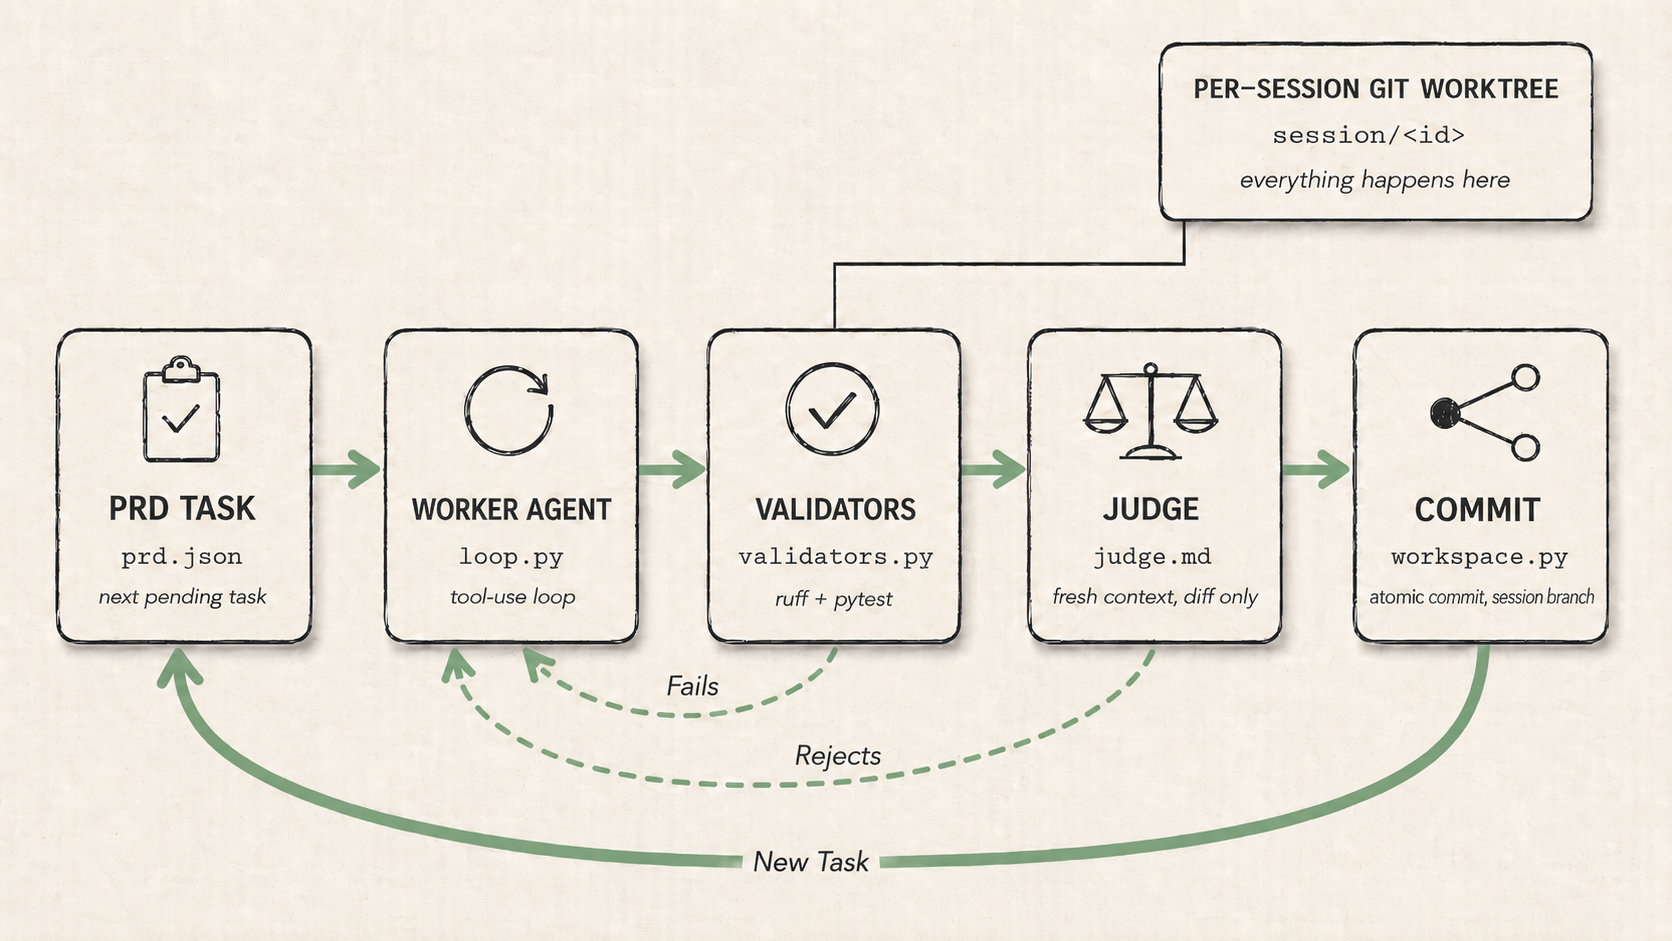
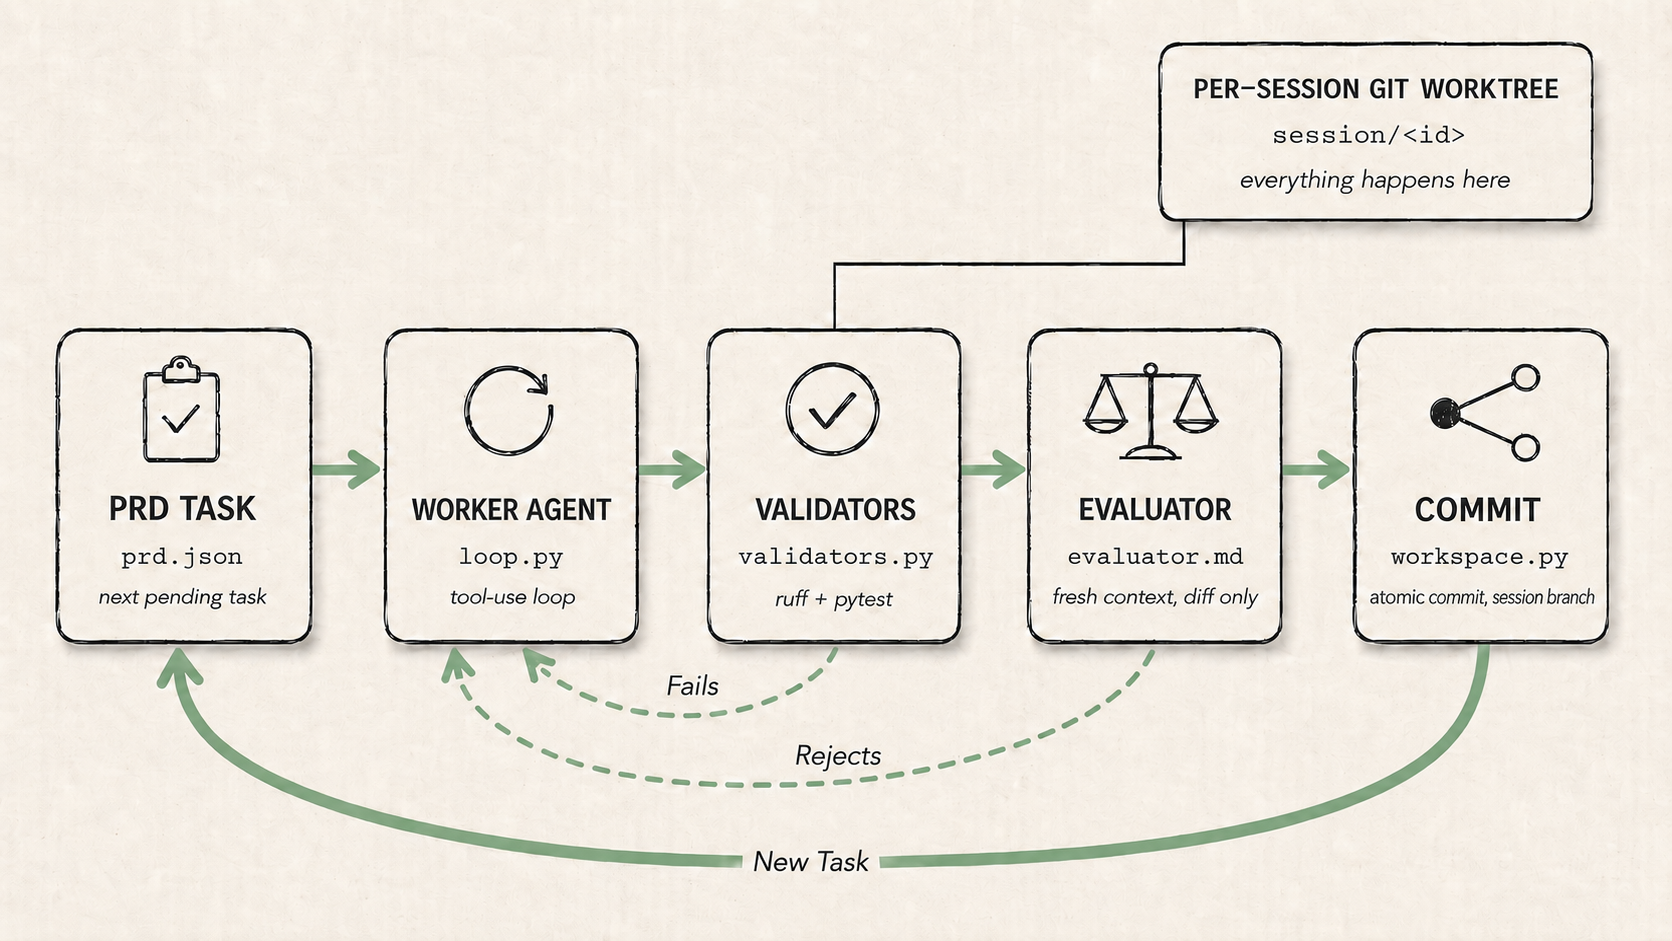
docs: address inline review comments; align iteration-cap default to 32
Resolve the %%! ... !%% review comments across the getting-started pages
and CLAUDE.md:
- CLAUDE.md: state the hyper-observability goal + link to Visualizing.
- your-own-project: add an early-research disclaimer; reframe "Python-centric"
  as Python-only-today / polyglot-intended (#20); link Visualizing from the
  first-run checklist.
- running-the-demo: demo is now just AGENTS.md + .gitignore; clarify the seed
  outputs are harness-owned and land Tilth-side; embed the session-layout
  diagram; correct the resume/cap guidance (only the token cap is cumulative
  across resumes — wall-clock resets, iteration cap is per-task).
- installation: note install-from-source (no binary story yet).

Make 32 the real iteration-cap default in code (client.py) so it matches
.env.example and the docs, and update the bare-value references across the
deep-dives / architecture / reference pages. The captured iter-cap worked
example (caps.md + resuming.md) stays truthful to its screenshots (cap=8),
with a note that the capture predates the default bump.

diff --git a/tilth/client.py b/tilth/client.py
@@ -137,7 +137,7 @@ class TilthConfig:
             prep_base_url=prep_base_url,
             prep_api_key=prep_api_key,
             prep_model=prep_model,
-            max_iterations_per_task=int(os.environ.get("TILTH_MAX_ITERATIONS_PER_TASK", "8")),
+            max_iterations_per_task=int(os.environ.get("TILTH_MAX_ITERATIONS_PER_TASK", "32")),
             max_evaluator_calls_per_task=int(
                 os.environ.get("MAX_EVALUATOR_CALLS_PER_TASK", "0") or "0"
             ),

diff --git a/docs/getting-started/your-own-project.md b/docs/getting-started/your-own-project.md
@@ -1,10 +1,8 @@
 # Using Tilth on your own project
 
-The honest version, not the marketing version.
+> **Early-stage research project.** Tilth is a research harness, not a hardened product. Running it should be *safe*: every change lands on an isolated `session/<id>` worktree branch, never on your `main`, and the harness never auto-merges — you review the diff like any other branch. What isn't guaranteed yet is *quality*. In these early stages the branch Tilth hands back may be rough or incomplete, and the tokens spent getting there are real. Treat runs as spend-at-your-own-risk and keep the first ones small.
 
 This page is for a reader who has finished the [demo walkthrough](running-the-demo.md) and now wants to point Tilth at their own codebase. [Installation](installation.md) and [Running the demo](running-the-demo.md) cover the harness mechanics — this page covers what's specific to applying it to your *own* repo: seeding the task list with `tilth prep-feature`, picking an evaluator, and the caveats that aren't obvious from a demo run.
-
-> **TL;DR.** This works well on a small Python project with 5–15 well-specified tasks and existing test patterns. Anything bigger or polyglot, you fork the harness.
 
 ## 1. Prep your repo
 
@@ -68,25 +66,22 @@ The session log lives at `{{tilth-clone-path}}/sessions/<id>/events.jsonl` — e
 
 ## 5. Caveats worth being upfront about
 
-- **It's Python-centric.** `post_edit` lints `.py` files. `validators` runs `pytest` and `ruff`. JavaScript / Rust / Go projects need `tilth/validators.py` and `tilth/hooks/post_edit.py` adapted to your toolchain — not deep work, but not zero.
-- **Ruff config matters.** If your project doesn't already use ruff, the validator will fire constantly and the agent will spend iterations fixing things that aren't really broken. Either add a permissive `[tool.ruff]` block to your `pyproject.toml`, or swap the ruff validator for whatever linter you already use.
+- **It's Python-only today — polyglot is the intent.** Right now `post_edit` lints `.py` files and `validators` runs `pytest` and `ruff`, so the mechanical floor assumes a Python toolchain. Making that floor language-pluggable — so Tilth can drive JavaScript, Rust, or Go projects on their own toolchains — is a tracked goal ([#20](https://github.com/AlteredCraft/tilth/issues/20)), not a finished feature. Until it lands, pointing Tilth at a non-Python project means adapting `tilth/validators.py` and `tilth/hooks/post_edit.py` to your toolchain yourself — not deep work, but not zero.
 - **The interview drives the seed; you drive the interview.** `prep-feature` interviews against your code, but the answers come from you. Vague briefs and rushed answers produce vague seeds and weak acceptance criteria, which burn tokens and produce branches you'll rewrite. The interview is the high-leverage moment — slow down here, not in the run.
-- **Costs are real, in two places.** The interview itself is a real spend (a frontier-tier reasoning model across many turns); the prompt-line token strip surfaces it so you can abort if it drifts. Then the run itself spends hundreds of thousands of tokens across worker + evaluator + self-improvement. The `TILTH_MAX_TOKENS` cap exists for a reason — set it on first run. Cost per token varies wildly across providers; pick your worker accordingly. Be careful about reaching for a smaller evaluator model to cut costs — see [Picking a evaluator model](#6-picking-an-evaluator-model) below.
+- **Costs are real, in two places.** The interview itself is a real spend (a frontier-tier reasoning model across many turns); the prompt-line token strip surfaces it so you can abort if it drifts. Then the run itself spends hundreds of thousands of tokens across worker + evaluator + self-improvement. The `TILTH_MAX_TOKENS` cap exists for a reason — set it on first run. If you set it too low, you can simply raise it and `--resume` the session. Cost per token varies wildly across providers; pick your worker accordingly. Be careful about reaching for a smaller evaluator model to cut costs — see [Picking a evaluator model](#6-picking-an-evaluator-model) below.
 - **AGENTS.md is yours.** Tilth reads it, never writes it. The self-improvement step's proposals land in `sessions/<id>/proposed-learnings.md` for you to review and (optionally) promote into AGENTS.md by hand. The file only grows when you decide it should.
 - **Tools are intentionally narrow.** No web fetch, no MCP, no curl-based downloads. If your tasks require external API access, you add a tool to `tilth/tools/` and register it. Keep tools focused — every tool description ships in the prompt every turn.
 - **The harness commits to your repo's git db.** Tilth keeps the working tree under `sessions/<id>/workspace/` on its own side, but the branch `session/<id>` lives in *your* repo's `.git`. So if you delete your Tilth clone without resetting first, those branches remain in your project. Clean up branches the same way you would for a normal feature branch — or run `tilth reset` before you blow Tilth away. See [Session layout](../deep-dives/session-layout.md) for the full split.
 
 ## 6. Picking an evaluator model
 
-The evaluator call is the single most consequential model decision in the harness. It's the only thing standing between "validators passed" and "this gets committed to a branch you'll merge." (The role is the *evaluator*; the config knob you set here is still `TILTH_EVALUATOR_MODEL`.)
+The evaluator call is the single most consequential model decision in the harness. It's the only thing standing between "validators passed" and "this gets committed to a branch you'll merge."
 
 ### Default: evaluator ≥ worker
 
 For correctness gating on code diffs, the evaluator should be **at least as capable as the worker, often more capable**. A weaker evaluator fails in the worst possible way: it accepts bad work because it didn't notice the problem.
 
-This is the opposite of the intuition many people start with ("the worker did the hard work, the evaluator just rubber-stamps"). The evaluator sees the diff, the acceptance criteria, the full validator output, the inlined seed test, the worker's structured case, and its own prior verdicts on this task — but not the worker's chain-of-thought or tool history. It's reviewing an artifact, not retracing the work — so it needs more capability to compensate, not less.
-
-Academic LLM-as-a-judge research bears this out: evaluators are typically run with GPT-4-class models judging GPT-3.5-class outputs, not the other way around. The point of separation is **independence**, not capability reduction.
+The evaluator sees the diff, the acceptance criteria, the full validator output, the inlined seed test, the worker's structured case, and its own prior verdicts on this task — but not the worker's chain-of-thought or tool history. It's reviewing an artifact, not retracing the work — so it needs more capability to compensate, not less.
 
 ### When dual-provider routing actually pays off
 
@@ -95,23 +90,10 @@ The `TILTH_EVALUATOR_BASE_URL` / `TILTH_EVALUATOR_API_KEY` feature is genuinely 
 - **Worker = open model, evaluator = Claude (both on OpenRouter).** Different model families catch different failure modes. Same-family judging shares the worker's blind spots.
 - **Worker = capable open model, evaluator = frontier closed model.** When you need the strongest possible gate, route the evaluator to whatever's at the top of the leaderboard for code review.
 
-Both of these are *upgrading* the evaluator, not downgrading it.
-
-### When a smaller / cheaper evaluator is OK
-
-There's a narrow band where a cheap evaluator works:
-
-- **Shallow checks.** Binary outcomes ("did this string change?", "is this JSON?"), regex matches, simple format validation.
-- **Policy gates.** "Did the response avoid the banned topics?", "Is this on-brand?" — small finetuned classifiers can do this for a fraction of the cost.
-- **Worker is already top-tier and tasks are tightly bounded.** If the worker is Sonnet 4.5 doing well-specified PRD tasks, a Haiku-class evaluator catches the obvious failures cheaply.
-
-For a Ralph loop doing real code review, none of these usually apply. Default to a evaluator that's at least as good as the worker. Only swap to a smaller evaluator after you've measured evaluator accept-rate on known-bad tasks and confirmed it's still catching them.
-
 ## 7. When this is the wrong tool
 
 - **Closed-source-only tasks.** If you can't share code with OpenRouter, this isn't the right tool today. A self-hosted OpenAI-compatible endpoint (vLLM, LM Studio) might work via the OpenAI SDK but hasn't been validated.
 - **Models without tool-calling support.** Some OpenRouter routes, some smaller open models, and most "completion-only" endpoints will fail or hallucinate tool calls. Verify on the demo workspace first.
-- **Polyglot codebases.** Adapt the validators, or accept that only the evaluator model is gating quality.
 - **One-shot prompts.** If your work fits in one Claude Code or Cursor session, just use that.
 - **Hours-long, mission-critical, or production-touching runs.** Use a managed runtime (Google Agent Platform, Claude Managed Agents) instead. This harness is for *learning the pattern* on small bounded work.
 
@@ -120,6 +102,5 @@ For a Ralph loop doing real code review, none of these usually apply. Default to
 1. Brief the interview **narrowly**. Two or three tasks' worth of work — a feature with a clear contract, not an open-ended refactor. "Add `--format json` to the export CLI" beats "improve the export system."
 2. Drive the interview honestly. When asked an out-of-scope question, push back rather than nod through it; when the model proposes a slice that looks wrong, redirect with words rather than `Other` defaults. The seed compounds — early shortcuts mean later iterations.
 3. Watch the console during `tilth run` — it streams every tool call. If the agent thrashes on one task, kill the run, reset, re-prep with a sharper brief.
-4. Inspect `sessions/<id>/events.jsonl` after the run. Look for unexpected patterns: tasks that took many iterations, evaluator rejections, validator failure loops. Each is a signal.
+4. Inspect `sessions/<id>/events.jsonl` after the run. Look for unexpected patterns: tasks that took many iterations, evaluator rejections, validator failure loops. Each is a signal. For a readable pass over the same data, render the run with [`tilth visualize`](visualizing.md) — it lays the event log out as a chat-style timeline with the seed context panelled above it.
 5. Read `sessions/<id>/proposed-learnings.md` and decide what (if anything) belongs in your `AGENTS.md`. The first few proposals are often noise — prune ruthlessly.
-6. Iterate the harness, not just the prompts. If a class of failure keeps recurring, add a hook (the ratchet pattern). Constraints are earned by failures.

diff --git a/docs/deep-dives/two-loops.md b/docs/deep-dives/two-loops.md
@@ -54,12 +54,12 @@ Each iteration is **exactly one worker `client.chat()` call**, plus whatever the
 
 ## A subtlety: evaluator rejections eat iterations
 
-This is worth flagging because it's not obvious. With `MAX_ITERATIONS_PER_TASK=8`:
+This is worth flagging because it's not obvious. Under `MAX_ITERATIONS_PER_TASK` (32 by default):
 
-- Worker spends 5 iterations writing code, submits a case.
+- Worker spends several iterations writing code, then submits a case.
 - Validators pass, evaluator rejects.
-- Worker has 3 iterations left to address the rejection, submit again, get re-evaluated.
-- If the evaluator rejects again, worker has fewer iterations to recover.
+- Worker now has to address the rejection, submit again, and get re-evaluated — all out of the *same* fixed budget.
+- If the evaluator rejects again, the worker has fewer iterations left to recover; a string of rejections can run a task into the cap.
 
 **A stricter evaluator effectively shrinks the working iteration budget.** The evaluator prompt's instruction that "vague rejections waste worker iterations" exists for this exact reason — every reject costs the worker forward progress on the same fixed budget.
 
@@ -105,7 +105,7 @@ Four halt-with-failure exits (`iter_cap`, `evaluator_cap`, `empty_responses`, `n
 ## Worst-case tokens per task
 
 ```
-worker_tokens × MAX_ITERATIONS_PER_TASK       (8 by default)
+worker_tokens × MAX_ITERATIONS_PER_TASK       (32 by default)
 + evaluator_tokens × number_of_evaluator_calls (1 per submit_case that passes
                                                 validators; capped by
                                                 MAX_EVALUATOR_CALLS_PER_TASK if set,
@@ -122,4 +122,4 @@ The evaluator is called once per `submit_case` attempt that passes validators. W
 - **`MAX_ITERATIONS_PER_TASK`** stops a task that's spinning. Bounds worker effort *within* a task. Caps tokens per task *indirectly* (no direct per-task token cap exists).
 - **`MAX_EVALUATOR_CALLS_PER_TASK`** (optional, off by default) stops a task that's worker↔evaluator ping-ponging. Bounds evaluator spend on a single PRD item.
 
-Default `MAX_ITERATIONS_PER_TASK=8` means: each task gets at most 8 worker turns to explore → edit → run tests → fix lint → respond to the evaluator → finally submit an accepted case with everything green. For tightly-scoped tasks with upfront tests, that's usually 3–5 in practice. Bumping to 12 or 16 gives the agent more room on harder tasks; lowering to 4 forces tighter PRDs.
+Default `MAX_ITERATIONS_PER_TASK=32` means: each task gets at most 32 worker turns to explore → edit → run tests → fix lint → respond to the evaluator → finally submit an accepted case with everything green. For tightly-scoped tasks with upfront tests, that's usually 3–5 in practice. Bumping to 12 or 16 gives the agent more room on harder tasks; lowering to 4 forces tighter PRDs.

diff --git a/docs/getting-started/running-the-demo.md b/docs/getting-started/running-the-demo.md
@@ -1,6 +1,6 @@
 # Running the demo
 
-The demo is a small todo-CLI workspace — a tiny Python project with `AGENTS.md` and an existing `tests/__init__.py`, otherwise empty. The demo path mirrors what a real first-time user does: seed a task list with `tilth prep-feature`, then run it. The seed is not pre-baked.
+The demo workspace is deliberately almost empty — just an `AGENTS.md` (the project's conventions) and a `.gitignore`. It exists mainly as a *git repo*, which is all Tilth needs to do what it always does: branch off a worktree and build inside it. The path mirrors what a real first-time user does — seed a task list with `tilth prep-feature`, then run it. Nothing is pre-baked; the todo CLI gets built from scratch during the run.
 
 ## Clone the demo workspace
 
@@ -17,8 +17,12 @@ Tilth's task list (`prd.json`) and the matching acceptance tests come from an *i
 ```bash
 uv run tilth prep-feature ~/projects/tilth-demo
 ```
+The interview prompts you for a one-line brief (try: *"build a minimal todo CLI with add, list, and done subcommands, on-disk format `- [ ] item` in `TODOS.md`"*), then asks a few targeted questions to slice the work and lock acceptance criteria. The output is **harness-owned and lands on the Tilth side, not in the demo repo**: the task list at `<tilth-clone>/sessions/<id>/prd.json`, plus one `test_t<NNN>_*.py` per task under that session's worktree at `<tilth-clone>/sessions/<id>/workspace/tests/` (on branch `session/<id>`). Your demo checkout stays as empty as it started. See [Seeding a session](../deep-dives/seeding.md) for the full interview-engine story.
 
-The interview prompts you for a one-line brief (try: *"build a minimal todo CLI with add, list, and done subcommands, on-disk format `- [ ] item` in `TODOS.md`"*), then asks a few targeted questions to slice the work and lock acceptance criteria. The output lands as `sessions/<id>/prd.json` plus one `test_t<NNN>_*.py` per task under `~/projects/tilth-demo/tests/`. See [Seeding a session](../deep-dives/seeding.md) for the full interview-engine story.
+![Filesystem trees for one Tilth run: HARNESS SIDE under ~/projects/tilth/sessions/<id>/ holds workspace/, events.jsonl, summary.json, checkpoint.json, chat.html; TARGET REPO SIDE under ~/projects/tilth-demo/.git/ holds refs/heads/session/<id> and worktrees/<id>/. A sage-green arrow labeled 'git worktree binds these' connects the workspace/ on the left to the worktrees/<id>/ admin entry on the right.](../assets/session-layout.png)
+
+*Where a session's state lives. Everything the harness writes — `prd.json`, the seeded tests under `workspace/`, the event log — sits under your **Tilth** clone (`sessions/<id>/`); only the `session/<id>` branch and its worktree admin entry live in the demo repo's `.git`. Full breakdown in [Session layout](../deep-dives/session-layout.md).*
+{: .caption }
 
 You can preview what a finished seed for this codebase looks like by reading [`examples/seed-reference/todo-cli/`](https://github.com/AlteredCraft/tilth/tree/main/examples/seed-reference/todo-cli) in the Tilth repo — same project, a hand-crafted reference.
 
@@ -41,7 +45,7 @@ What happens, end-to-end:
     - Commit on the worktree branch. Append to `progress.txt`. Mark the task `done` in `prd.json`.
 4. Stops on: all tasks done, iteration cap, wall-clock cap, token cap, evaluator-call cap, or a terminal failure (e.g. a provider returning empty responses, or the worker never presenting a case).
 
-You can interrupt at any point with Ctrl-C. Ctrl-C and cap hits (iteration, wall-clock, token) both leave the run in a resumable state — see [Resuming a session](resuming.md) to pick it back up. If a cap was what stopped you, bump it in `.env` first or `tilth resume` will trip it again.
+You can interrupt at any point with Ctrl-C. Ctrl-C and cap hits (iteration, wall-clock, token) all leave the run in a resumable state — see [Resuming a session](resuming.md) to pick it back up. Of the three caps, only the **token** cap needs attention before you resume: the cumulative token total carries across resumes, so if `TILTH_MAX_TOKENS` is what stopped the run, raise it in `.env` first or `tilth resume` trips it again on the first check. The wall-clock budget resets per resume, and the iteration cap is per-task (a retried task starts counting from one), so neither blocks a resume unless the work genuinely needs a bigger budget — see [What resume does](resuming.md#what-resume-does).
 
 ## What you should expect to see
 
@@ -49,7 +53,7 @@ The console streams every tool call as it happens. The per-task loop has the sha
 
 ![Six rounded boxes arranged left to right depicting one task's lifecycle inside Tilth's harness: PROMPT (a stack of three document icons representing AGENTS.md, progress.txt, and the task; caption "fresh context built from disk"); TOOL LOOP (a wrench-and-file glyph encircled by a loop arrow, with monospace tool labels bash, read_file, edit_file, grep; caption "worker iterates until it stops"); VALIDATORS (a checkmark over a terminal prompt, labels ruff and pytest; caption "objective gate"); JUDGE (a balance scale; caption "subjective gate, fresh context"); SELF-IMPROVE (a notebook with a sage-green bookmark ribbon; caption "propose a learning (optional)"); COMMIT (a git-branch glyph with a single new-commit dot; caption "one task = one commit"). Two label-bars span the top: "WORKER SEES" over PROMPT and TOOL LOOP, "HARNESS ONLY" over the remaining four boxes. Sage-green forward arrows connect each box to the next; two thinner sage-green feedback curves return to TOOL LOOP from VALIDATORS (labelled validator_failed) and from JUDGE (labelled evaluator_rejected).](../assets/per-task-lifecycle.jpg)
 
-*One task's lifecycle inside the harness. The worker sees the Prompt (now including the feature plan as context and, on a retry, the evaluator's prior verdicts on this task) and the Tool Loop; the Self-Improve step and the cross-task evaluation machinery stay harness-side. Failed validators or a rejected evaluator verdict feed back into the Tool Loop for another iteration. (The diagram still labels the review box "JUDGE" — it predates the role rename and is queued for regeneration.)*
+*One task's lifecycle inside the harness. The worker sees the Prompt and the Tool Loop; the Self-Improve step and the cross-task evaluation machinery stay harness-side. Failed validators or a rejected evaluator verdict feed back into the Tool Loop for another iteration.*
 {: .caption }
 
 A clean run ends with every task in `prd.json` marked `done` and a commit-per-task on the `session/<id>` branch. When the loop doesn't track this cleanly, watch for these patterns:

diff --git a/docs/getting-started/installation.md b/docs/getting-started/installation.md
@@ -11,6 +11,8 @@ Tilth is a small Python package; setup is straight `uv` plumbing plus a `.env`.
 
 ## Clone and install
 
+> **Install-from-source, for now.** Tilth is early research, so the supported install path today is cloning the repo and running it through `uv` (below). There's no `pip install tilth` or prebuilt binary yet — a packaged install story is on the roadmap, not here.
+
 Tilth and the project you point it at are **independent checkouts** — Tilth lives in its own directory, and the codebase it works on lives somewhere else. Clone Tilth wherever you keep code; the `tilth` command takes the target repo as a plain path argument (`uv run tilth <path>`), so any layout works.
 
 ```bash
@@ -43,7 +45,7 @@ All three of `TILTH_BASE_URL`, `TILTH_API_KEY`, and `TILTH_WORKER_MODEL` are **r
 | `TILTH_PREP_MODEL` | same as worker | Model that runs the `tilth prep-feature` interview. Set to a frontier reasoning model independently of the worker. |
 | `TILTH_PREP_BASE_URL` | inherits worker | Point the seeder at a *different* provider than the worker (e.g. worker on a budget provider, prep on a frontier one). |
 | `TILTH_PREP_API_KEY` | inherits worker | Bearer token for the prep provider. |
-| `TILTH_MAX_ITERATIONS_PER_TASK` | `8` | Tool-use iterations before a task is marked failed. |
+| `TILTH_MAX_ITERATIONS_PER_TASK` | `32` | Tool-use iterations before a task is marked failed. |
 | `TILTH_MAX_WALL_CLOCK_MINUTES` | `120` | Outer-loop wall-clock cap. |
 | `TILTH_MAX_TOKENS` | `2000000` | Cumulative session token cap. |
 | `MAX_EVALUATOR_CALLS_PER_TASK` | `0` (off) | Optional cap on worker↔evaluator ping-pong. |

diff --git a/CLAUDE.md b/CLAUDE.md
@@ -6,6 +6,8 @@ Guidance for Claude Code (claude.ai/code) when working in this repo.
 
 A minimal long-running agent harness against any OpenAI-compatible LLM endpoint. It implements the Brain / Hands / Session split, the Ralph loop, and the four memory channels from Addy Osmani's posts on long-running agents (plus a fifth Tilth adds — the per-task evaluator ledger). Built as both a working tool and the practical centerpiece of an Altered Craft article.
 
+The ultimate goal is a minimal, productive agent harness with **hyper-observability**: every prompt the harness sends is accessible and adaptable, and every run is fully inspectable after the fact. The [Visualizing a session](docs/getting-started/visualizing.md) page is an early example of that extended observability — a finished run rendered end-to-end from its `events.jsonl`.
+
 ## Where to look first
 
 - **`mkdocs.yml`** — **the canonical map of the documentation set**, and your primary entry point when looking for docs by topic. The `nav:` block has a one- to four-line comment above each leaf entry summarising what the linked `.md` covers and when you'd reach for it; skim those comments first, then open the page that fits. Everything that matters for users and contributors lives under `docs/`; `README.md` is the GitHub landing page and points into `docs/` for anything beyond the elevator pitch.

diff --git a/docs/architecture/memory-channels.md b/docs/architecture/memory-channels.md
@@ -49,7 +49,7 @@ Where things live.
 **AGENTS.md should stay project-focused.** It's for *project* conventions, not harness mechanics:
 
 - **Belongs in AGENTS.md:** language version, test framework, file layout, style rules, project-specific gotchas, accumulated learnings.
-- **Does *not* belong in AGENTS.md:** "record token counts in `events.jsonl`" (agent doesn't write that file), "update `prd.json` status when done" (agent doesn't manage prd), "stop after 8 iterations" (handled by `max_iterations_per_task`), "don't run dangerous commands" (handled by `pre_tool` hook), "the evaluator will evaluate your work" (see [Agent visibility](../deep-dives/agent-visibility.md)).
+- **Does *not* belong in AGENTS.md:** "record token counts in `events.jsonl`" (agent doesn't write that file), "update `prd.json` status when done" (agent doesn't manage prd), "stop after 32 iterations" (handled by `max_iterations_per_task`), "don't run dangerous commands" (handled by `pre_tool` hook), "the evaluator will evaluate your work" (see [Agent visibility](../deep-dives/agent-visibility.md)).
 
 The cleanest test: if you removed a rule from AGENTS.md and the harness still enforced the underlying behaviour, the rule shouldn't be there.
 

diff --git a/docs/deep-dives/agent-visibility.md b/docs/deep-dives/agent-visibility.md
@@ -41,7 +41,7 @@ Three failure modes prevented by hiding mechanics from the agent:
 A natural follow-on. AGENTS.md is for *project* conventions, not harness mechanics:
 
 - **Belongs in AGENTS.md:** language version, test framework, file layout, style rules, project-specific gotchas, accumulated learnings.
-- **Does *not* belong in AGENTS.md:** "record token counts in `events.jsonl`" (agent doesn't write that file), "update `prd.json` status when done" (agent doesn't manage prd), "stop after 8 iterations" (handled by `max_iterations_per_task`), "don't run dangerous commands" (handled by `pre_tool` hook), "the evaluator will evaluate your work" (see "gaming the evaluator" above).
+- **Does *not* belong in AGENTS.md:** "record token counts in `events.jsonl`" (agent doesn't write that file), "update `prd.json` status when done" (agent doesn't manage prd), "stop after 32 iterations" (handled by `max_iterations_per_task`), "don't run dangerous commands" (handled by `pre_tool` hook), "the evaluator will evaluate your work" (see "gaming the evaluator" above).
 
 The cleanest test: if you removed a rule from AGENTS.md and the harness still enforces the underlying behaviour, the rule shouldn't be there. Harness machinery handles the mechanics; AGENTS.md handles the project.
 

diff --git a/docs/deep-dives/caps.md b/docs/deep-dives/caps.md
@@ -18,7 +18,7 @@ A cap-4 (iter_cap) hit, with the post-run summary the harness prints on the way 
 
 ![Terminal capture: task T-003 reaches iter 8, the harness logs "task T-003 hit iteration cap [TILTH_MAX_ITERATIONS_PER_TASK=8]" and then "× T-003 failed (iter_cap); halting run". A run summary block follows: session 20260523-082151-45f0a5, branch session/20260523-082151-45f0a5, duration 2m27s (2.0% of TILTH_MAX_WALL_CLOCK_MINUTES=120), tokens 75,387 (3.8% of TILTH_MAX_TOKENS=2,000,000), tasks done=2 failed=1 pending=2.](../assets/iter-cap-and-summary.png)
 
-*Two things to read here. Top: the cap fires and the run halts mid-task list (T-003 of five). Bottom: the run summary surfaces every cap as a percentage, so it's obvious which one bit — duration and tokens are both well under, only iterations were tight.*
+*Two things to read here. Top: the cap fires and the run halts mid-task list (T-003 of five). Bottom: the run summary surfaces every cap as a percentage, so it's obvious which one bit — duration and tokens are both well under, only iterations were tight. (This capture predates the default bump — the cap was set to `8` for this run, below today's default of `32` — which is why it halts this early.)*
 {: .caption }
 
 The `failed=1 pending=2` line in the summary is what `tilth resume` reads to plan its retry — see [Resuming a session](../getting-started/resuming.md) for what picks up from this exact point (same session id).

diff --git a/docs/deep-dives/token-recording.md b/docs/deep-dives/token-recording.md
@@ -135,4 +135,4 @@ A few honest gaps worth knowing:
 1. **No dollar-cost tracking.** Tokens, not dollars. The cap is provider-agnostic — useful as a coarse safety net, useless for "stop when I've spent $50 on this run." Adding dollar tracking means a per-model price table and a cost lookup at each `add_tokens` site. Not in MVP.
 2. **No per-model breakdown.** If worker and evaluator are different models on different providers, the running total mashes them together. Splitting `tokens_used` into `worker_tokens_used` and `evaluator_tokens_used` is ~10 lines if it ever matters.
 3. **No headroom warning.** The cap is binary — under it, run; at it, stop. No "you're at 80% of your token budget" alert. Easy to add in `_stop_reason` if you want it.
-4. **The cap is over the whole session, not per-task.** A 10-task run with a 2M cap means tasks 1–9 might gobble tokens and starve task 10. There's no per-task budget. The iteration cap (default 8 model calls per task) is the proxy; combined with average tokens/call, that approximates a per-task ceiling.
+4. **The cap is over the whole session, not per-task.** A 10-task run with a 2M cap means tasks 1–9 might gobble tokens and starve task 10. There's no per-task budget. The iteration cap (default 32 model calls per task) is the proxy; combined with average tokens/call, that approximates a per-task ceiling.

diff --git a/docs/getting-started/resuming.md b/docs/getting-started/resuming.md
@@ -11,7 +11,7 @@ uv run tilth resume <session_id>  # or name one explicitly
 
 Bare `tilth resume` selects the most recent session in `sessions/` by directory name (the timestamp prefix sorts chronologically). The pre-Phase-3 flag form `--resume` still works for one minor version.
 
-Continuing the [cap-hit example from the caps deep-dive](../deep-dives/caps.md#what-hitting-a-cap-looks-like) — same session (`20260523-082151-45f0a5`), with `TILTH_MAX_ITERATIONS_PER_TASK` bumped from `8` to `16` in `.env` before resuming:
+Continuing the [cap-hit example from the caps deep-dive](../deep-dives/caps.md#what-hitting-a-cap-looks-like) — same session (`20260523-082151-45f0a5`), with `TILTH_MAX_ITERATIONS_PER_TASK` bumped from `8` to `16` in `.env` before resuming (this worked example was captured when the cap was set to `8`, below today's default of `32`):
 
 ![Terminal capture of `uv run tilth resume`. The harness prints "↻ resume plan: retrying T-003 (was: failed); then: T-004, T-005; last stop: iter_cap", then the session header (session id, branch, worktree, model deepseek/deepseek-v4-flash), then "task T-003 iter 1" with a read_file call, "task T-003 iter 2" with two glob calls, and "task T-003 iter 3" beginning.](../assets/resume-after-iter-cap.png)
 

diff --git a/docs/reference/safety-guards.md b/docs/reference/safety-guards.md
@@ -4,7 +4,7 @@ Tilth runs autonomously for an hour or two at a time, against a real workspace, 
 
 ## Hard stops
 
-- **Iteration cap per task** (default `8`, env: `TILTH_MAX_ITERATIONS_PER_TASK`).
+- **Iteration cap per task** (default `32`, env: `TILTH_MAX_ITERATIONS_PER_TASK`).
 - **Wall-clock cap per run** (default `120` minutes, env: `TILTH_MAX_WALL_CLOCK_MINUTES`).
 - **Token cap per session** (default `2,000,000`, env: `TILTH_MAX_TOKENS`).
 - **Optional evaluator-call cap per task** (default `0` = off, env: `MAX_EVALUATOR_CALLS_PER_TASK`).